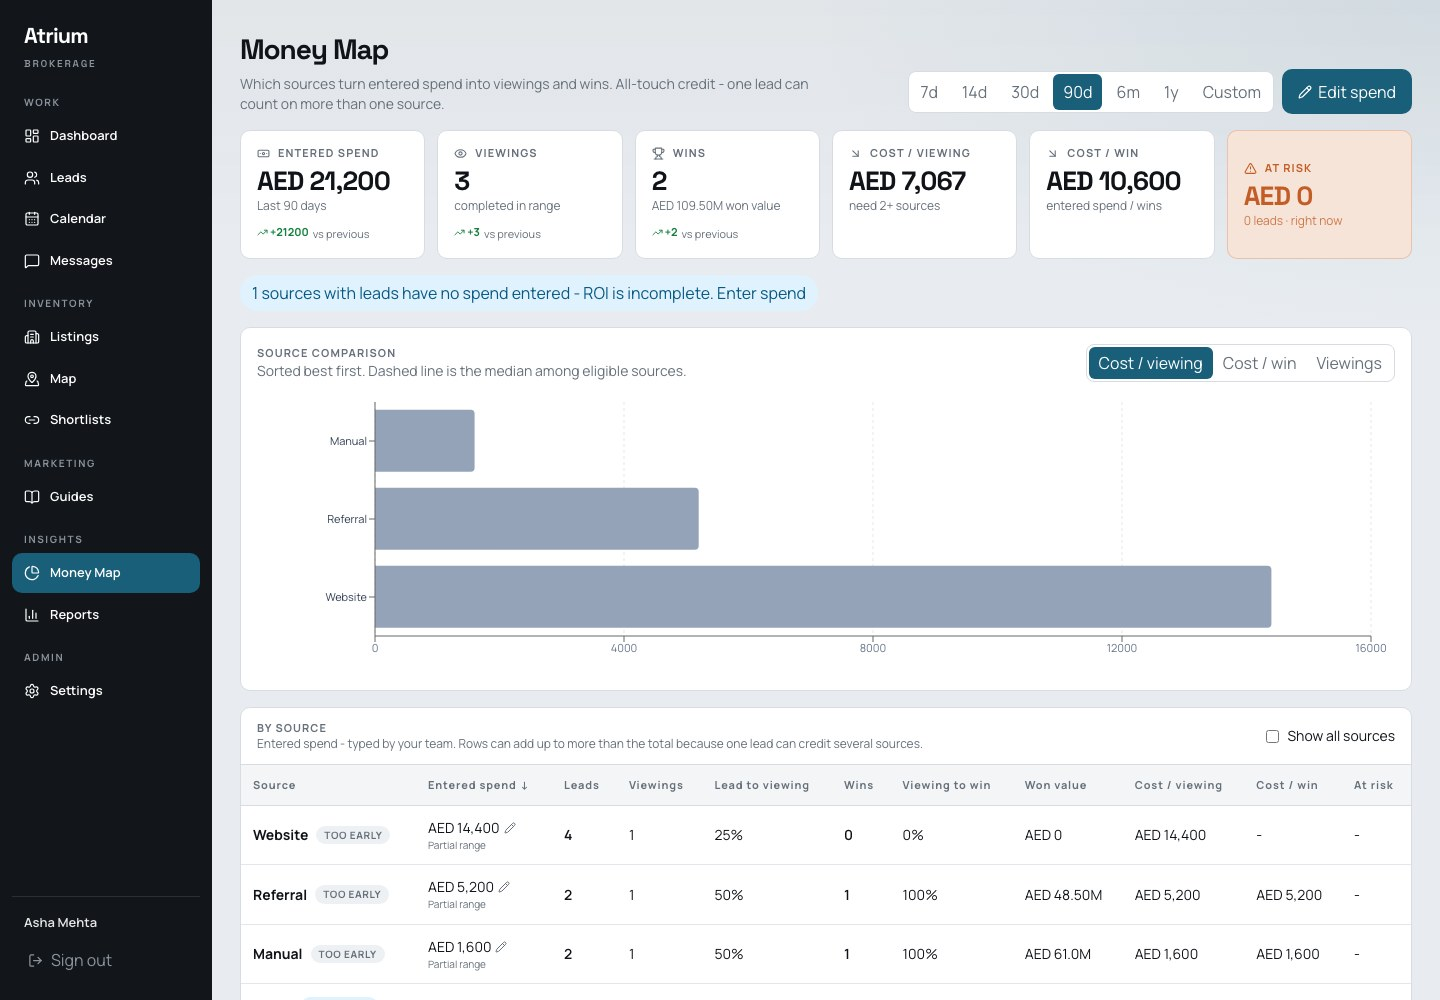
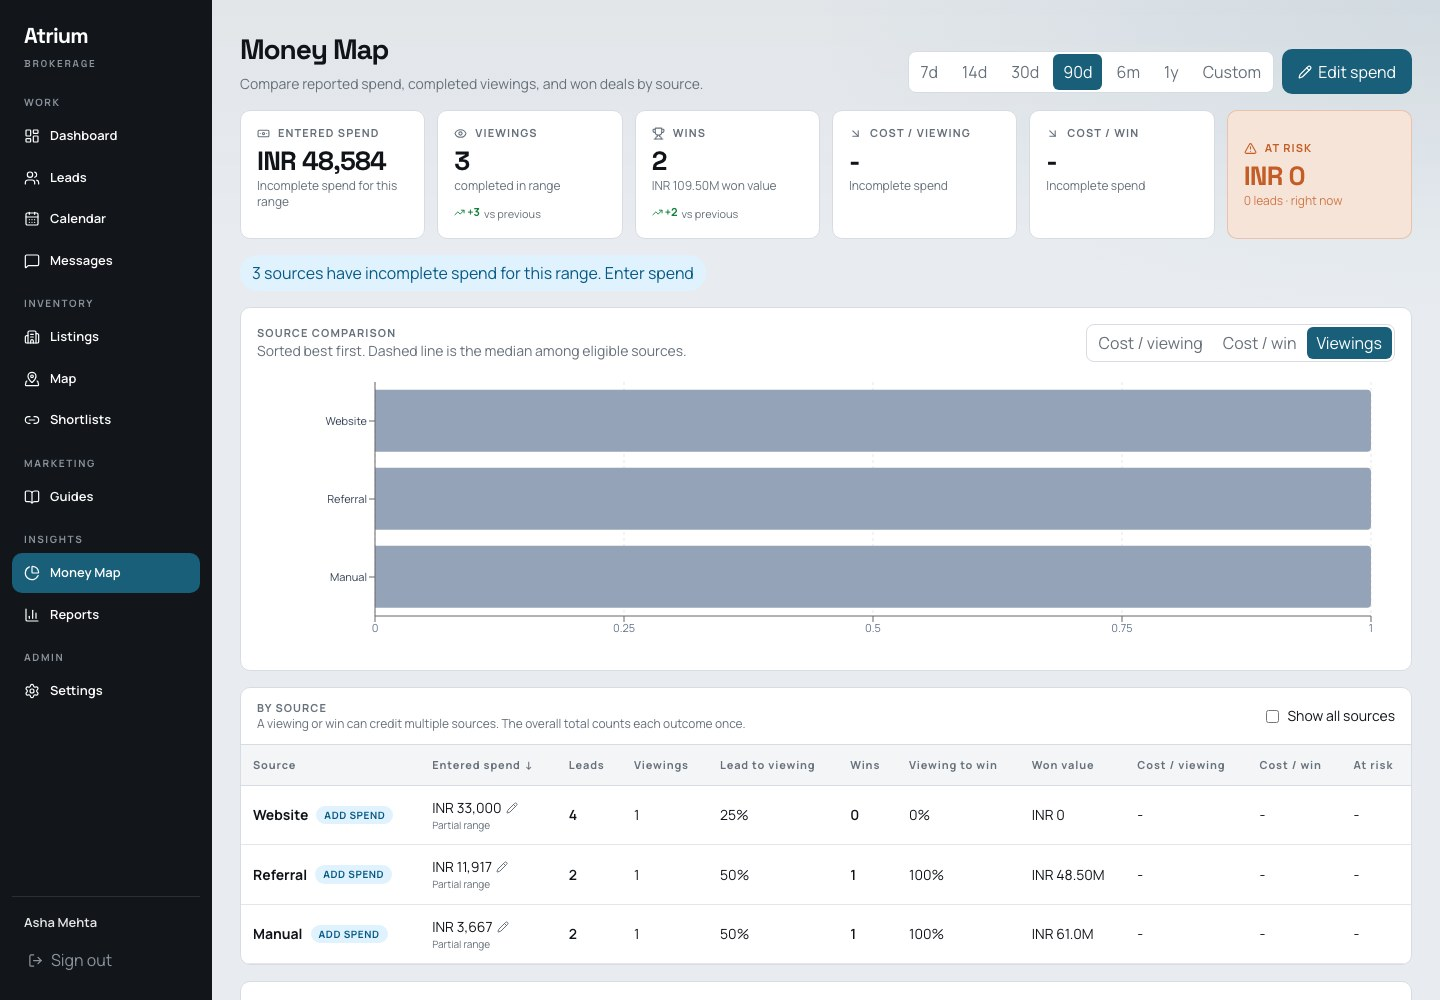
Fix mobile CRM navigation and layouts, refresh screenshots, and add regression checks

diff --git a/web/src/components/AppShell.tsx b/web/src/components/AppShell.tsx
@@ -1,7 +1,7 @@
 "use client";
 
 import Link from "next/link";
-import { useEffect, useState } from "react";
+import { useEffect, useRef, useState } from "react";
 import { api } from "@/lib/api";
 import { usePathname, useRouter } from "next/navigation";
 import {
@@ -17,6 +17,8 @@ import {
   MapPinned,
   BookOpen,
   MessageSquare,
+  Menu,
+  X,
 } from "lucide-react";
 import { authClient } from "@/lib/auth-client";
 
@@ -65,6 +67,8 @@ export function AppShell({
   const pathname = usePathname();
   const router = useRouter();
 
+  const [menuOpen, setMenuOpen] = useState(false);
+  const menuButton = useRef<HTMLButtonElement>(null);
   const [unread, setUnread] = useState(0);
   useEffect(() => {
     let active = true;
@@ -91,20 +95,33 @@ export function AppShell({
 
   return (
     <div className="flex min-h-screen flex-col md:flex-row">
-      <aside className="flex shrink-0 flex-col bg-[var(--sidebar)] px-3 py-3 text-white md:sticky md:top-0 md:h-dvh md:w-[212px] md:py-5">
-        <div className="font-display mb-2 px-3 md:mb-6 text-[1.35rem] font-bold tracking-[-0.04em]">
+      <aside onKeyDown={(event) => {
+        if (event.key === "Escape" && menuOpen) {
+          setMenuOpen(false);
+          menuButton.current?.focus();
+        }
+      }} className="flex shrink-0 flex-col bg-[var(--sidebar)] px-3 py-3 text-white md:sticky md:top-0 md:h-dvh md:w-[212px] md:py-5">
+        <div className="flex items-center justify-between md:mb-6">
+        <div className="font-display px-3 text-[1.35rem] font-bold tracking-[-0.04em]">
           Atrium
           <span className="mt-1 block text-[10px] font-semibold uppercase tracking-[0.18em] text-[var(--sidebar-muted)]">
             Brokerage
           </span>
         </div>
-        <nav aria-label="Workspace" className="flex flex-1 gap-2 overflow-x-auto md:flex-col md:gap-4 md:overflow-y-auto">
+          <button ref={menuButton} type="button" aria-expanded={menuOpen} aria-controls="workspace-menu"
+            onClick={() => setMenuOpen(open => !open)}
+            className="flex min-h-11 items-center gap-2 rounded px-3 text-sm font-semibold md:hidden">
+            {menuOpen ? <X size={18} /> : <Menu size={18} />} Menu
+          </button>
+        </div>
+        <div id="workspace-menu" className={`${menuOpen ? "flex" : "hidden"} mt-3 min-h-0 flex-1 flex-col md:mt-0 md:flex`}>
+        <nav aria-label="Workspace" className="flex flex-1 flex-col gap-3 md:gap-4 md:overflow-y-auto">
           {groups.map((group) => (
             <div key={group.label} className="shrink-0">
-              <div className="hidden md:block mb-1.5 px-3 text-[10px] font-bold uppercase tracking-[0.16em] text-[var(--sidebar-muted)]">
+              <div className="mb-1.5 px-3 text-[10px] font-bold uppercase tracking-[0.16em] text-[var(--sidebar-muted)]">
                 {group.label}
               </div>
-              <div className="flex gap-0.5 md:flex-col">
+              <div className="grid grid-cols-2 gap-0.5 md:flex md:flex-col">
                 {group.items.map(({ href, label, icon: Icon }) => {
                   const active =
                     href === "/app"
@@ -114,6 +131,7 @@ export function AppShell({
                     <Link
                       key={href}
                       href={href}
+                      onClick={() => setMenuOpen(false)}
                       aria-current={active ? "page" : undefined}
                       className={`flex items-center gap-2.5 rounded-[var(--radius)] px-3 py-2.5 text-[13px] whitespace-nowrap font-semibold transition ${
                         active
@@ -146,6 +164,7 @@ export function AppShell({
           >
             <LogOut size={15} /> Sign out
           </button>
+        </div>
         </div>
       </aside>
       <main className="min-w-0 flex-1 p-4 sm:p-5 lg:p-7">{children}</main>

diff --git a/web/src/app/app/leads/page.tsx b/web/src/app/app/leads/page.tsx
@@ -342,7 +342,19 @@ function LeadsContent() {
 
   const detailRequest = useRef<AbortController | null>(null);
   const detailTarget = useRef<string | null>(null);
-  const openLead = useCallback(async (id: string) => {
+  const detailHeading = useRef<HTMLHeadingElement>(null);
+  const revealDetail = useRef(false);
+  useEffect(() => {
+    if (selected && revealDetail.current) {
+      revealDetail.current = false;
+      if (window.matchMedia("(max-width: 767px)").matches) {
+        detailHeading.current?.focus({ preventScroll: true });
+        detailHeading.current?.scrollIntoView({ block: "start" });
+      }
+    }
+  }, [selected]);
+
+  const openLead = useCallback(async (id: string, reveal = false) => {
     detailRequest.current?.abort();
     detailTarget.current = id;
     const controller = new AbortController();
@@ -358,6 +370,7 @@ function LeadsContent() {
       ]);
       if (signal.aborted) return;
       if (detail.status === "rejected") throw detail.reason;
+      revealDetail.current = reveal;
       setSelected(detail.value);
       if (related.status === "fulfilled") setMatches(related.value);
       else setEnquiryError("Could not load matching listings.");
@@ -379,7 +392,7 @@ function LeadsContent() {
     if (!openLeadId) return;
     let active = true;
     queueMicrotask(() => {
-      if (active) void openLead(openLeadId);
+      if (active) void openLead(openLeadId, true);
     });
     return () => {
       active = false;
@@ -588,7 +601,7 @@ function LeadsContent() {
                 data-lead-card={lead.id}
                 aria-pressed={selectMode ? checked : undefined}
                 onDragStart={(e) => e.dataTransfer.setData("text/lead", lead.id)}
-                onClick={() => (selectMode ? toggleSelected(lead.id) : openLead(lead.id))}
+                onClick={() => (selectMode ? toggleSelected(lead.id) : openLead(lead.id, true))}
                 className={`relative w-full rounded-[8px] border p-3 text-left transition ${
                   active
                     ? "border-ink bg-ink text-white"
@@ -674,7 +687,7 @@ function LeadsContent() {
                     : ""
                 } in pipeline`}
             {" · "}
-            {selectMode ? "click cards to select them" : "drag cards to move stages"}
+            {selectMode ? "Select lead cards" : <><span className="md:hidden">Open a lead to change its stage</span><span className="hidden md:inline">drag cards to move stages</span></>}
           </p>
         </div>
         <div className="flex flex-wrap items-center gap-2">
@@ -848,7 +861,7 @@ function LeadsContent() {
           <div>
             <div className="flex items-start justify-between gap-2">
               <div>
-                <h2 className="font-display text-xl font-bold tracking-[-0.03em]">
+                <h2 ref={detailHeading} tabIndex={-1} className="scroll-mt-4 font-display text-xl font-bold tracking-[-0.03em]">
                   {selected.name}
                 </h2>
                 <p className="text-sm text-muted">
@@ -873,7 +886,7 @@ function LeadsContent() {
                   type="button"
                   disabled={actionBusy}
                   onClick={() => moveStage(selected.id, s)}
-                  className={`rounded-[6px] px-2.5 py-1 text-[11px] font-bold ${
+                  className={`min-h-11 md:min-h-0 rounded-[6px] px-2.5 py-1 text-[11px] font-bold ${
                     selected.stage === s ? "bg-accent text-white" : "bg-[#eef1f4] text-muted"
                   }`}
                 >

diff --git a/web/src/app/app/calendar/page.tsx b/web/src/app/app/calendar/page.tsx
@@ -457,7 +457,7 @@ function CalendarContent() {
         <div>
           <div className="mb-1.5 grid grid-cols-7 gap-1.5">
             {["Sun", "Mon", "Tue", "Wed", "Thu", "Fri", "Sat"].map((d) => (
-              <div key={d} className="px-2 text-[11px] font-bold uppercase tracking-[0.08em] text-muted">
+              <div key={d} className="text-center sm:px-2 sm:text-left text-[11px] font-bold uppercase tracking-[0.08em] text-muted">
                 {d}
               </div>
             ))}
@@ -487,7 +487,9 @@ function CalendarContent() {
                     setMode("view");
                   }}
                   onDoubleClick={() => openCreate(day)}
-                  className={`min-h-[108px] rounded-[var(--radius)] border p-1.5 text-left transition ${
+                  aria-pressed={active}
+                  aria-label={`${format(day, "EEEE, MMMM d, yyyy")}, ${live} active, ${cxl} cancelled`}
+                  className={`min-w-0 min-h-11 sm:min-h-[108px] rounded-[var(--radius)] border p-0.5 sm:p-1.5 text-left transition ${
                     active
                       ? "border-accent bg-accent-soft/40 shadow-[0_0_0_1px_var(--accent)]"
                       : inMonth
@@ -495,7 +497,7 @@ function CalendarContent() {
                         : "border-transparent bg-transparent opacity-40"
                   }`}
                 >
-                  <div className="mb-1 flex items-center justify-between gap-1">
+                  <div className="flex items-center justify-center sm:mb-1 sm:justify-between sm:gap-1">
                     <span
                       className={`inline-flex h-6 min-w-6 items-center justify-center rounded-full px-1 text-xs font-bold ${
                         today ? "bg-accent text-white" : active ? "text-accent" : "text-ink"
@@ -504,13 +506,14 @@ function CalendarContent() {
                       {format(day, "d")}
                     </span>
                     {(live > 0 || cxl > 0) && (
-                      <span className="text-[10px] font-bold text-muted">
+                      <span className="hidden sm:inline text-[10px] font-bold text-muted">
                         {live}
                         {cxl > 0 ? ` · ${cxl} cxl` : ""}
                       </span>
                     )}
                   </div>
-                  <div className="space-y-1">
+                  {dayEvs.length > 0 && <span aria-hidden="true" className="mx-auto block size-1.5 rounded-full bg-accent sm:hidden" />}
+                  <div className="hidden space-y-1 sm:block">
                     {dayEvs.slice(0, 3).map((ev) => {
                       const overdue = ev.outcome === "SCHEDULED" && new Date(ev.startsAt) < now;
                       return (
@@ -539,7 +542,8 @@ function CalendarContent() {
               );
             })}
           </div>
-          <p className="mt-2 text-xs text-muted">Tip: double-click a day to schedule. Red struck-through pills are cancelled.</p>
+          <p className="mt-2 text-xs text-muted sm:hidden">Tap a day to see its agenda below.</p>
+          <p className="mt-2 hidden text-xs text-muted sm:block">Tip: double-click a day to schedule. Red struck-through pills are cancelled.</p>
         </div>
 
         <div className="space-y-3">

diff --git a/api/tests/dashboardTrend.test.ts b/api/tests/dashboardTrend.test.ts
@@ -220,9 +220,13 @@ test("trend endpoint: viewings and won metrics", async () => {
   const pw = past(365);
   const wr = { from: new Date(pw.from.setHours(0, 0, 0, 0)), to: new Date(pw.to.setHours(23, 59, 59, 999)) };
   const w = await get(`/api/dashboard/trend?${pw.qs}&metric=won`);
-  const realW = await prisma.lead.findMany({
-    where: { organizationId: orgId, stage: "WON", updatedAt: { gte: wr.from, lte: wr.to } },
-    select: { dealValueAed: true },
+  const wonLeads = await prisma.lead.findMany({
+    where: { organizationId: orgId, stage: "WON" },
+    select: { wonAt: true, updatedAt: true, dealValueAed: true },
+  });
+  const realW = wonLeads.filter((lead) => {
+    const wonDate = lead.wonAt ?? lead.updatedAt;
+    return wonDate >= wr.from && wonDate <= wr.to;
   });
   assert.equal(w.json.totals.count, realW.length);
   assert.equal(

diff --git a/web/src/app/app/guides/page.tsx b/web/src/app/app/guides/page.tsx
@@ -338,7 +338,7 @@ export default function GuidesPage() {
           <option value="gated">Form first</option>
           <option value="open">Open download</option>
         </select>
-        <div className="flex items-center gap-1">
+        <div className="flex flex-wrap items-center gap-1">
           <select
             className="field"
             aria-label="Sort guides by"

diff --git a/web/src/components/TrendChart.tsx b/web/src/components/TrendChart.tsx
@@ -195,7 +195,7 @@ function Seg<T extends string>({
     <div
       role="group"
       aria-label={label}
-      className="flex items-center gap-0.5 rounded-[8px] border border-line bg-paper p-0.5"
+      className="flex flex-wrap items-center gap-0.5 rounded-[8px] border border-line bg-paper p-0.5"
     >
       {options.map((o) => {
         const off = disabled?.(o.id) ?? false;

diff --git a/tests/test_screenshot_gallery.py b/tests/test_screenshot_gallery.py
@@ -1,0 +1,29 @@
+"""Check the image links that readers open from the GitHub gallery."""
+import re
+import subprocess
+from pathlib import Path
+
+import pytest
+from PIL import Image
+
+ROOT = Path(__file__).resolve().parents[1]
+GALLERY = Path("design/screenshots")
+CURRENT = GALLERY / "current"
+LINKS = re.findall(r"\]\((current/[^)]+\.(?:jpg|jpeg|png|webp))\)",
+                   (ROOT / GALLERY / "README.md").read_text())
+TRACKED = set(subprocess.check_output(
+    ["git", "ls-files", "--", str(CURRENT)], cwd=ROOT, text=True
+).splitlines())
+
+
+def test_gallery_indexes_all_current_screenshots():
+    assert LINKS, "No screenshot links found in the gallery"
+    assert {str(GALLERY / link) for link in LINKS} == {
+        path for path in TRACKED if Path(path).suffix.lower() in {".jpg", ".jpeg", ".png", ".webp"}
+    }
+
+
+@pytest.mark.parametrize("link", LINKS)
+def test_linked_image_decodes(link):
+    with Image.open(ROOT / GALLERY / link) as image:
+        image.load()

diff --git a/design/screenshots/README.md b/design/screenshots/README.md
@@ -1,6 +1,6 @@
 # Atrium screenshots
 
-The [current walkthrough](current/) was captured on 24 November 2026 from the local CRM and Ops builds using an isolated database and fictional accounts. The older captures in this folder document earlier versions and design explorations.
+The [current walkthrough](current/) was captured on 24–25 November 2026 from the local CRM and Ops builds using an isolated database and fictional accounts. The older captures in this folder document earlier versions and design explorations.
 
 ## CRM
 
@@ -32,7 +32,8 @@ The [current walkthrough](current/) was captured on 24 November 2026 from the lo
 - The public guide check submitted its form and downloaded the PDF. The Ops check created an invite and opened its acceptance page.
 - The CRM dashboard and public shortlist were checked for horizontal overflow at 390 px. Desktop captures are 1440 × 1000 px.
 - The separate chat regression suite passed, including link expiry, revocation, PIN lockout, and access handoff.
-- The API regression suite passed 145 of 146 checks. The dashboard won-deals trend test expected 26 deals and received 27. The test selects by the lead's last update, while the endpoint uses the recorded win date when available.
-- Money Map displayed AED for the fictional INR brokerage. Its API currently returns AED for every brokerage. The screenshot preserves the observed display.
+- On 25 November, all 147 API regression checks passed against the isolated database. The won-deals check uses the recorded win date, with a fallback for older records.
+- All 11 CRM workspace pages fit widths of 320, 390, 768, and 1280 px in Chromium. Phone checks covered the workspace menu, lead details, the add-lead form, and calendar day selection.
+- The updated Money Map and spend editor show the fictional brokerage’s INR figures. The mobile dashboard shows the workspace menu.
 
 Share tokens and PIN values are masked where displayed. The captures show representative states. [Planned buyer workflows](../../docs/WORKFLOWS.md) cover the proposed lead-linked shortlist and viewing request.

diff --git a/README.md b/README.md
@@ -24,6 +24,11 @@ If port 4000 is occupied, run the API with `PORT=4100 BETTER_AUTH_URL=http://loc
 and run both frontends with `NEXT_PUBLIC_API_URL=http://localhost:4100 npm run dev`.
 For API tests on this port, use `API_URL=http://localhost:4100 npm test` from `api/`.
 
+### Regression checks
+
+- From the repository root, run `uv run --with pytest --with Pillow pytest -q tests/test_screenshot_gallery.py` to check the tracked gallery paths and decode each linked screenshot. This check runs offline once its dependencies are installed.
+- With the local API and CRM running, the demo brokerage seeded with leads, and Playwright Chromium installed, run `npm run test:mobile` from `web/`. It checks all 11 workspace pages at four widths, plus mobile navigation, lead details, the add-lead dialog, and calendar selection.
+
 ### 1. Database
 
 Postgres running locally with database `atrium`:
